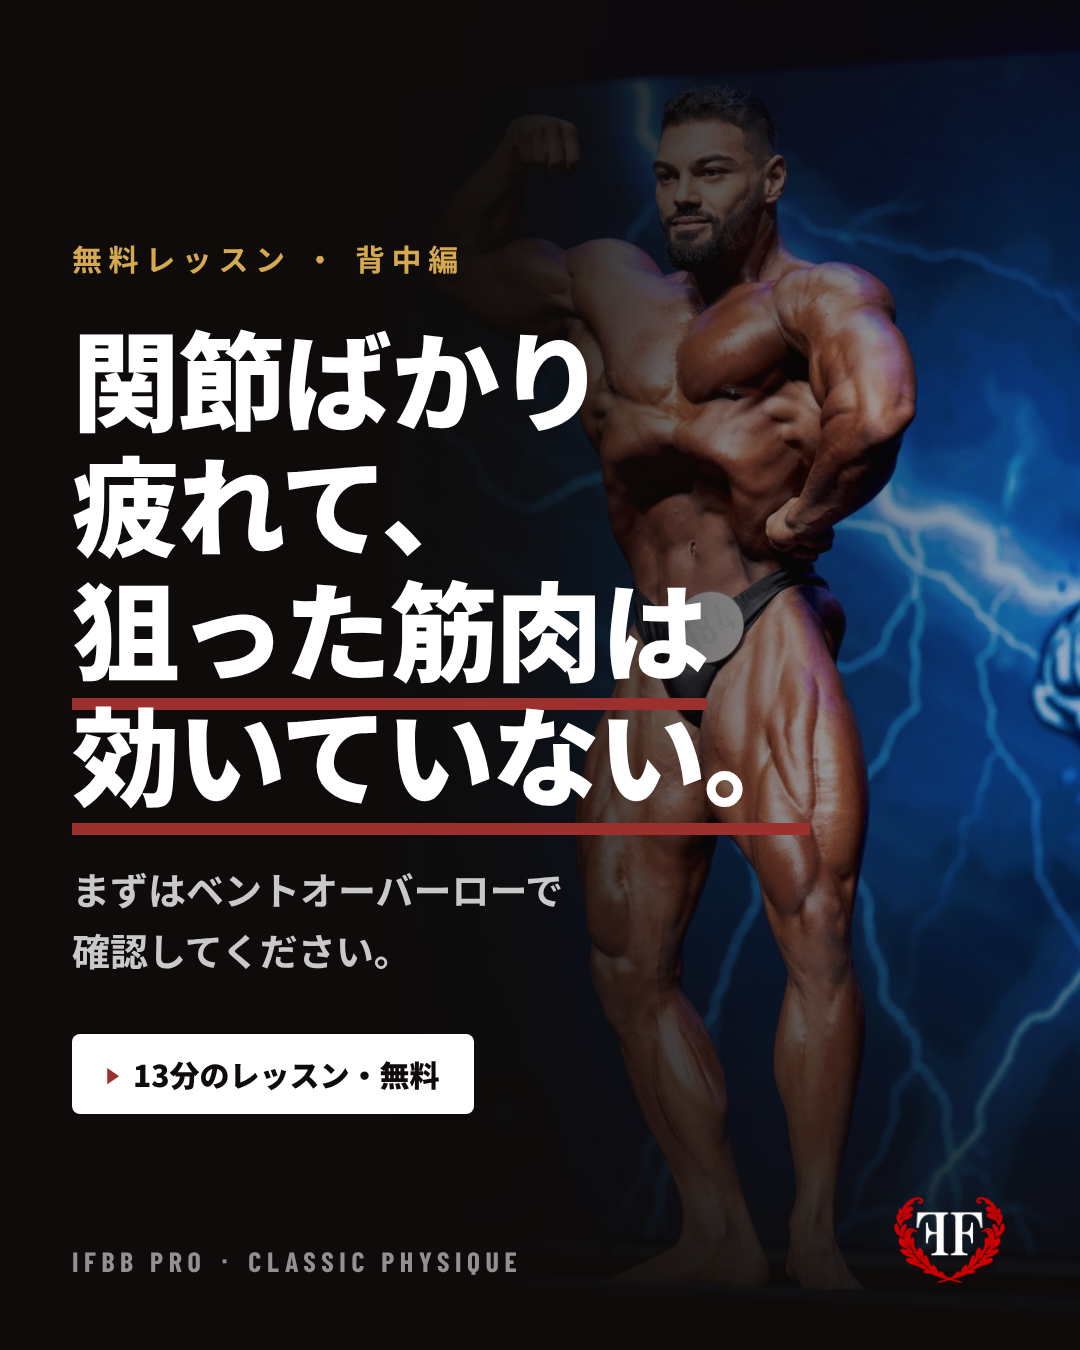
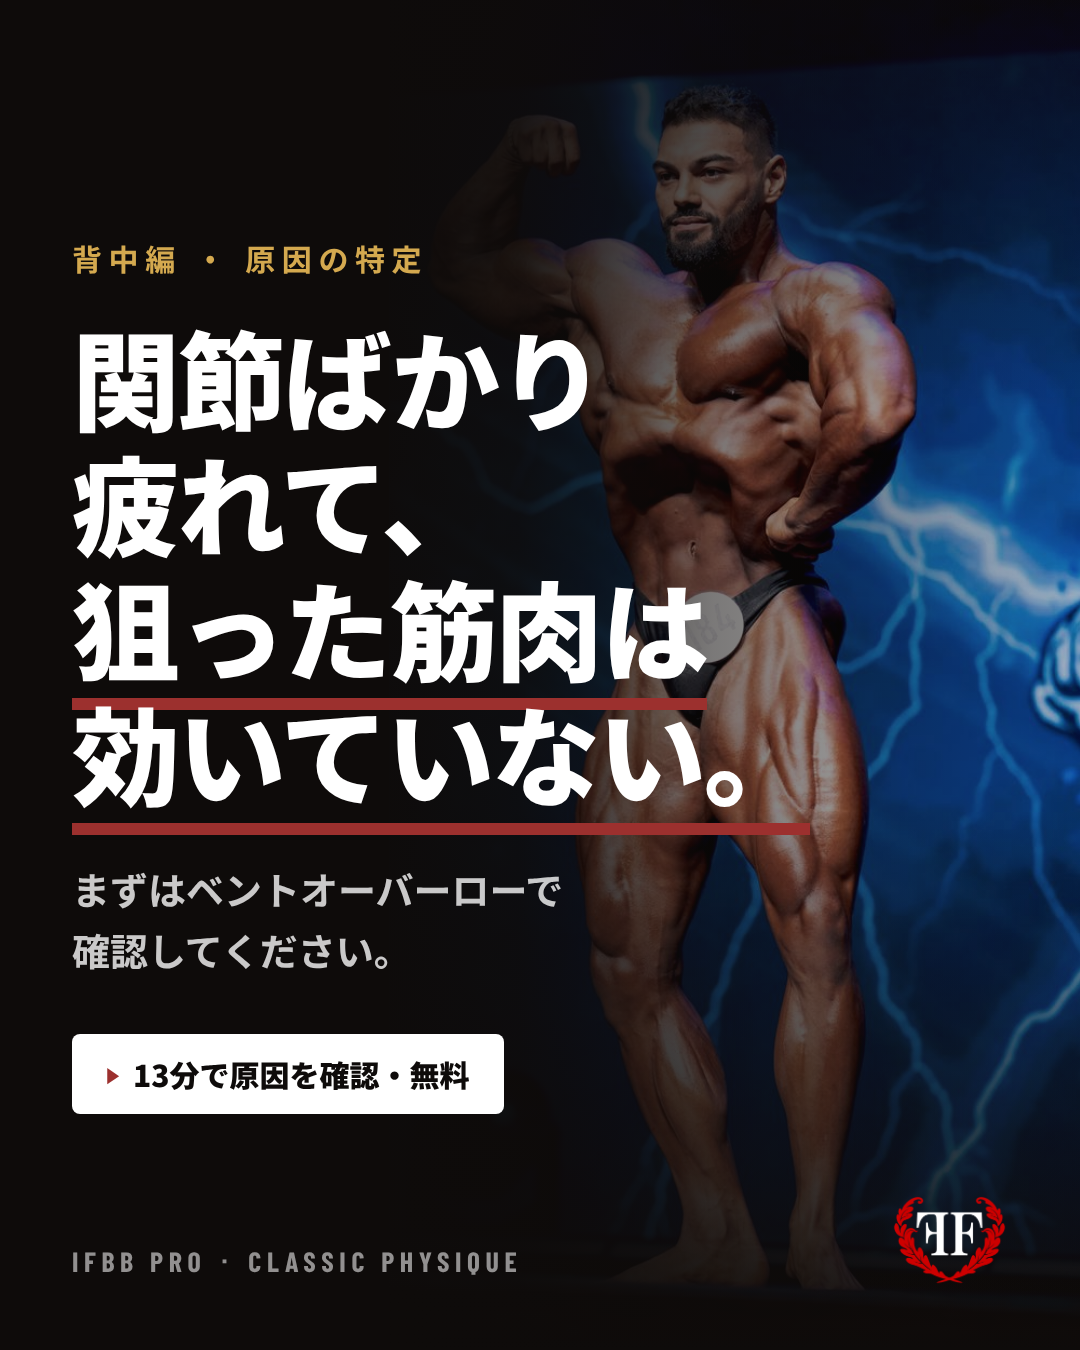
Lesson page: replace "free lesson" wording with problem-solving copy (#38)
* Add UPPER DAY YouTube thumbnails (part 1, 2) and the series thumbnail template

Claude-Session: https://claude.ai/code/session_01HRty6kL8VRnpLHHHzSF3iS

* UPPER DAY thumbnails: reframe to keep the face visible and hide the burned-in caption

Claude-Session: https://claude.ai/code/session_01HRty6kL8VRnpLHHHzSF3iS

* UPPER DAY thumbnails v2: loud yellow/red creator style, distinct from the community look

Claude-Session: https://claude.ai/code/session_01HRty6kL8VRnpLHHHzSF3iS

* UPPER DAY thumbnails v3: competition roar photo plus gym face chip

Claude-Session: https://claude.ai/code/session_01HRty6kL8VRnpLHHHzSF3iS

* UPPER DAY thumbnails: soften hook to Felipe's voice

Claude-Session: https://claude.ai/code/session_01HRty6kL8VRnpLHHHzSF3iS

* UPPER DAY thumbnails: keep the hook line on one row

Claude-Session: https://claude.ai/code/session_01HRty6kL8VRnpLHHHzSF3iS

* UPPER DAY thumbnails: hook label on one line

Claude-Session: https://claude.ai/code/session_01HRty6kL8VRnpLHHHzSF3iS

* UPPER DAY thumbnails on the brand guide: FF black base, white type, laurel red as the single accent, gym press photo; add visual identity PDF

Claude-Session: https://claude.ai/code/session_01HRty6kL8VRnpLHHHzSF3iS

* UPPER DAY thumbnail: three promise-led headline variants on the brand template

Claude-Session: https://claude.ai/code/session_01HRty6kL8VRnpLHHHzSF3iS

* Add post-live story images (thanks + next live 11/23) and story template
[…]

Changed region(s): [[0.1833, 0.7467, 0.4889, 0.84], [0.0611, 0.1867, 0.4278, 0.2178]]

diff --git a/lesson.html b/lesson.html
@@ -3,10 +3,10 @@
 <head>
 <meta charset="UTF-8" />
 <meta name="viewport" content="width=device-width, initial-scale=1.0" />
-<title>無料レッスン｜関節ばかり疲れて、狙った筋肉は効いていない。｜IFBB PRO Felipe Fukai</title>
-<meta name="description" content="まずは、ベントオーバーローが正しくできているか見てください。IFBB PRO Felipe Fukai が8つのチェックで13分で解説。無料。" />
-<meta property="og:title" content="関節ばかり疲れて、狙った筋肉は効いていない。｜無料レッスン" />
-<meta property="og:description" content="まずは、ベントオーバーローが正しくできているか見てください。IFBB PRO Felipe Fukai。13分・無料。" />
+<title>関節ばかり疲れて、狙った筋肉は効いていない。｜原因を13分で特定する｜IFBB PRO Felipe Fukai</title>
+<meta name="description" content="背中に効かず、腰と腕ばかり疲れる原因を、ベントオーバーローで特定する。IFBB PRO Felipe Fukai が8つのチェックで13分で解説。" />
+<meta property="og:title" content="関節ばかり疲れて、狙った筋肉は効いていない。｜原因を13分で特定する" />
+<meta property="og:description" content="背中に効かず、腰と腕ばかり疲れる原因を、ベントオーバーローで特定する。IFBB PRO Felipe Fukai。13分。" />
 <meta property="og:type" content="website" />
 <meta property="og:image" content="https://ff-uniao.netlify.app/assets/ads/lesson-joints/og.png" />
 <meta property="og:url" content="https://ff-uniao.netlify.app/lesson" />
@@ -97,25 +97,25 @@ fbq('track', 'ViewContent', {content_name: 'lesson-joints'});
 <div class="ls-wrap">
   <header class="ls-top">
     <a href="/uniao" aria-label="Felipe Fukai"><img src="/assets/logo-ff-dark-sm.png" alt="FF" width="64" height="50" /></a>
-    <span>FREE LESSON</span>
+    <span>FORM CHECK</span>
   </header>
 
   <!-- ===== LOCKED ===== -->
   <main id="locked">
-    <p class="eyebrow">無料レッスン</p>
+    <p class="eyebrow">ベントオーバーロー ｜ 原因の特定</p>
     <h1 class="h1">関節ばかり疲れて、<br /><u>狙った筋肉は</u><br /><u>効いていない。</u></h1>
-    <p class="lead">まずは、<strong>ベントオーバーローが正しくできているか</strong>見てください。IFBB PRO Felipe Fukai が、負荷が関節や腰に逃げる瞬間を8つのチェックで解説します。UNIÃO から、1本を無料公開。</p>
+    <p class="lead">腰と腕が先に疲れて、背中が変わらない。その原因は、<strong>ベントオーバーローを見れば分かります</strong>。IFBB PRO Felipe Fukai が、負荷が関節や腰に逃げる瞬間を8つのチェックで特定します。13分。</p>
 
     <div class="vid" id="vid-locked">
       <img src="/assets/go-poster.jpg" alt="" width="1280" height="720" />
       <div class="vid-lock">
         <i><svg width="24" height="24" viewBox="0 0 24 24" fill="none" stroke="#fff" stroke-width="2.2" stroke-linecap="round" stroke-linejoin="round"><rect x="4" y="11" width="16" height="10" rx="2"/><path d="M8 11V7a4 4 0 0 1 8 0v4"/></svg></i>
-        <b>無料レッスン ・ 13分</b>
-        <small>下のフォームにメールを入力すると視聴できます</small>
+        <b>原因を特定する ・ 13分</b>
+        <small>下にメールを入力すると、このページですぐ見られます</small>
       </div>
     </div>
 
-    <p class="in-h">IN THIS LESSON</p>
+    <p class="in-h">この動画で分かること</p>
     <ul class="in">
       <li>動作中、上体の角度が変わっていないか。上体を安定させる工夫</li>
       <li>狙った背中ではなく、腕や腰で代償していないか。自分で見抜く方法</li>
@@ -124,8 +124,8 @@ fbq('track', 'ViewContent', {content_name: 'lesson-joints'});
     </ul>
 
     <section class="fcard" id="register">
-      <h2><span>無料レッスンを見る</span></h2>
-      <p>送り先を教えてください。レッスンはこのページですぐ開きます。</p>
+      <h2><span>原因を確認する</span></h2>
+      <p>送り先を教えてください。動画はこのページですぐ開きます。</p>
       <form name="uniao-waitlist" method="POST" data-netlify="true" data-netlify-honeypot="bot-field" class="ls-form" action="/lesson?unlocked=1">
         <input type="hidden" name="form-name" value="uniao-waitlist" />
         <input type="hidden" name="source" value="lesson-joints" />
@@ -134,15 +134,15 @@ fbq('track', 'ViewContent', {content_name: 'lesson-joints'});
         <input type="text" id="ls-name" name="name" autocomplete="given-name" placeholder="例：太郎" />
         <label for="ls-email">メールアドレス</label>
         <input type="email" id="ls-email" name="email" required autocomplete="email" inputmode="email" placeholder="you@example.com" />
-        <button type="submit" class="cta">無料レッスンを見る</button>
+        <button type="submit" class="cta">13分で原因を確認する →</button>
       </form>
-      <p class="fnote">UNIÃO の事前登録リストに入り、Felipe からメールが届きます。いつでも解除できます。<a href="/privacy.html">プライバシーポリシー</a></p>
+      <p class="fnote">無料｜クレジットカード不要。UNIÃO の事前登録リストに入り、Felipe から次の動画が届きます。いつでも解除できます。<a href="/privacy.html">プライバシーポリシー</a></p>
     </section>
   </main>
 
   <!-- ===== UNLOCKED ===== -->
   <main id="unlocked" hidden>
-    <p class="eyebrow done">LESSON UNLOCKED</p>
+    <p class="eyebrow done">READY</p>
     <h1 class="h1">ベントオーバーローは、<br />正しくできているか</h1>
     <div class="vid" id="vid-open"></div>
 
@@ -159,7 +159,7 @@ fbq('track', 'ViewContent', {content_name: 'lesson-joints'});
       <div class="chips"><span class="on">種目解説</span><span>骨格に合わせる</span><span>プログラム</span><span>栄養</span><span>回復</span><span>大会準備</span></div>
       <p class="meta">11/23 Instagram ライブで価格発表 ・ 11/26 先行アクセス ・ 11/27 オープン</p>
       <a class="cta" id="learn-more" href="/uniao?utm_source=lesson&utm_content=joints">UNIÃO について詳しく →</a>
-      <p class="enote">このレッスンで、すでに事前登録リストに入っています。オープン時にメールでお知らせします。</p>
+      <p class="enote">すでに事前登録リストに入っています。オープン時にメールでお知らせします。</p>
     </section>
   </main>
 

diff --git a/assets/ads/lesson-joints/cover-template.html b/assets/ads/lesson-joints/cover-template.html
@@ -26,10 +26,10 @@ body.og .btn{font-size:22px;padding:12px 24px;margin-top:26px}
 body.og .logo{height:70px;right:60px;bottom:40px} body.og .pro{display:none}
 </style></head><body class="r45">
 <div class="wrap">
-  <p class="label">無料レッスン ・ 背中編</p>
+  <p class="label">背中編 ・ 原因の特定</p>
   <p class="h">関節ばかり<br>疲れて、<br><u>狙った筋肉は</u><br><u>効いていない。</u></p>
   <p class="p">まずはベントオーバーローで<br>確認してください。</p>
-  <p class="btn"><i>▶</i> 13分のレッスン・無料</p>
+  <p class="btn"><i>▶</i> 13分で原因を確認・無料</p>
 </div>
 <p class="pro">IFBB PRO ・ CLASSIC PHYSIQUE</p>
 <img class="logo" src="logo.png" alt="">

diff --git a/assets/ads/lesson-joints/cover-photo-template.html b/assets/ads/lesson-joints/cover-photo-template.html
@@ -35,10 +35,10 @@ body.og .fade{background:linear-gradient(90deg,#0E0B0A 0%,#0E0B0A 50%,rgba(14,11
 </style></head><body class="r45">
 <div class="bg"></div><div class="fade"></div>
 <div class="wrap">
-  <p class="label">無料レッスン ・ 背中編</p>
+  <p class="label">背中編 ・ 原因の特定</p>
   <p class="h">関節ばかり<br>疲れて、<br><u>狙った筋肉は</u><br><u>効いていない。</u></p>
   <p class="p">まずはベントオーバーローで<br>確認してください。</p>
-  <p class="btn"><i>▶</i> 13分のレッスン・無料</p>
+  <p class="btn"><i>▶</i> 13分で原因を確認・無料</p>
 </div>
 <p class="pro">IFBB PRO ・ CLASSIC PHYSIQUE</p>
 <img class="logo" src="logo.png" alt="">
